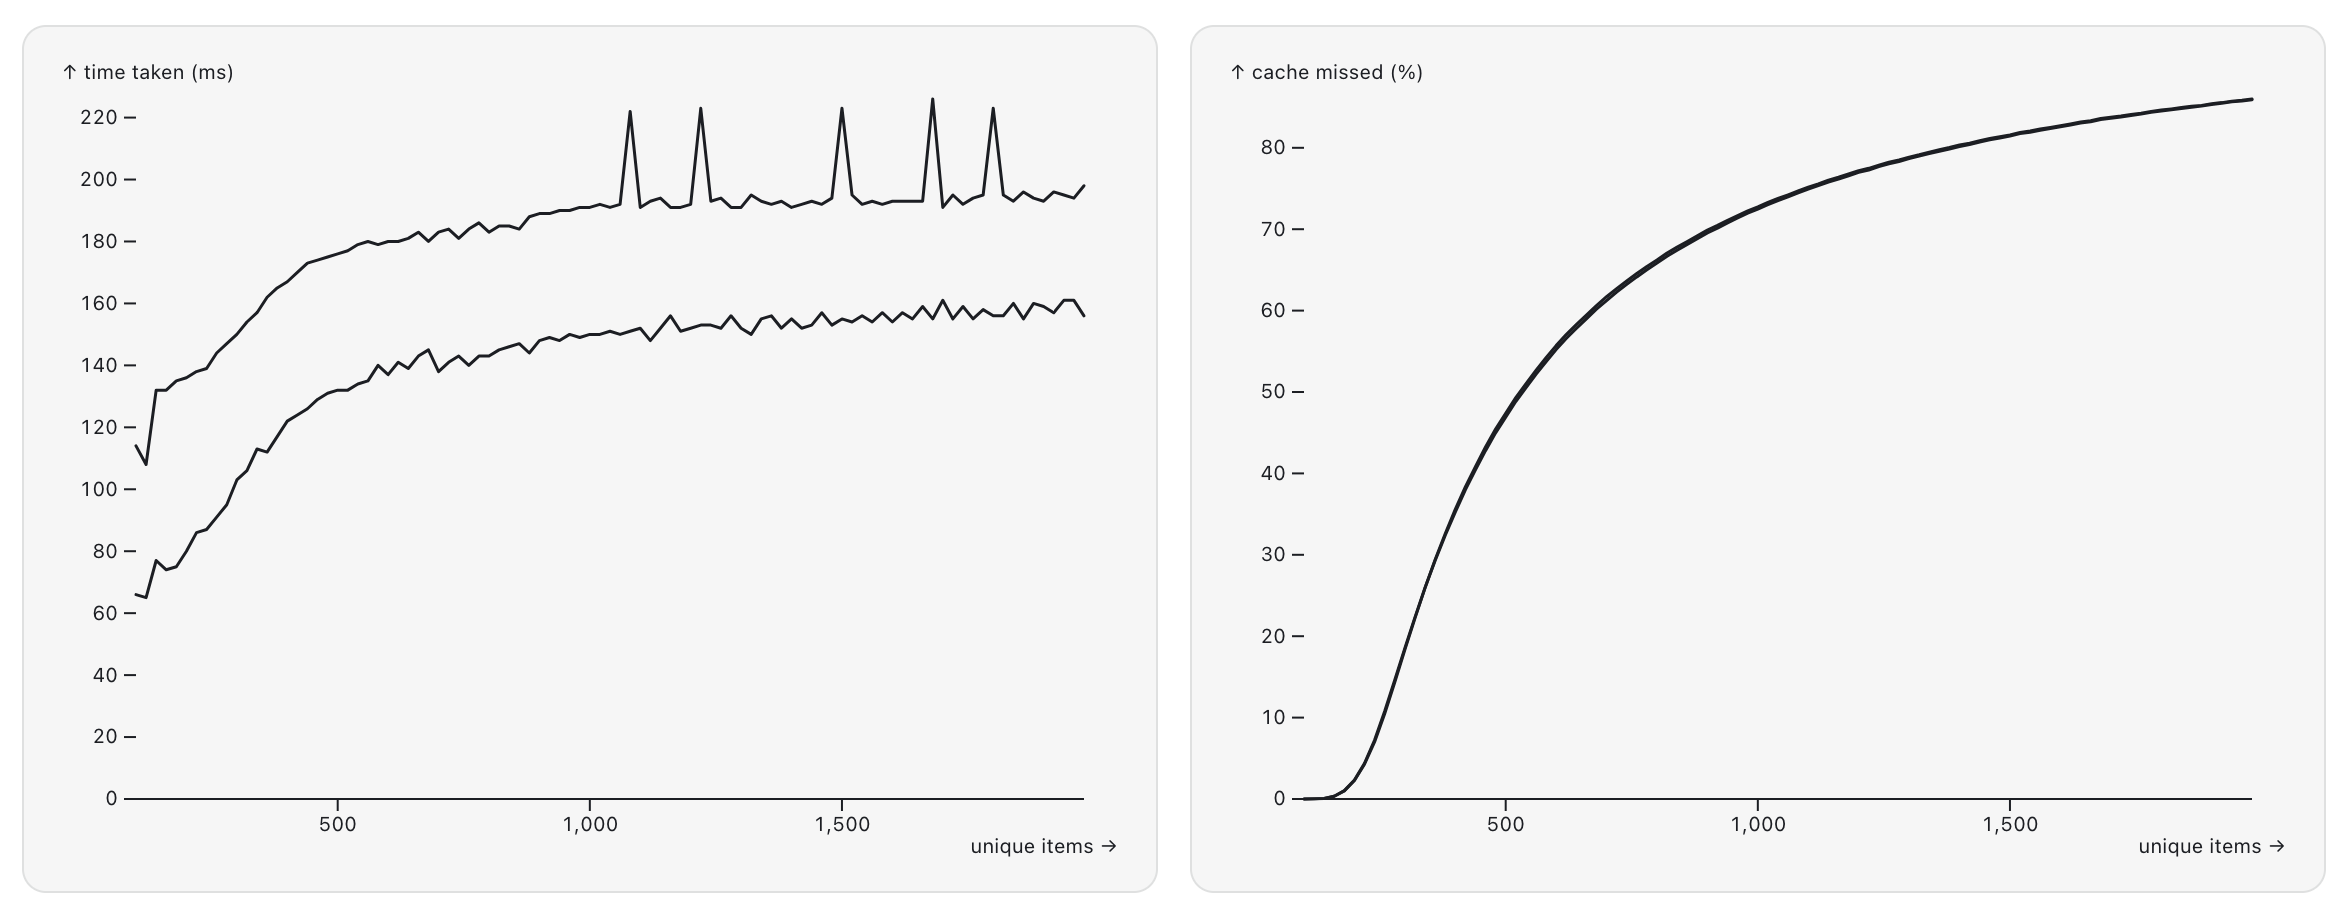
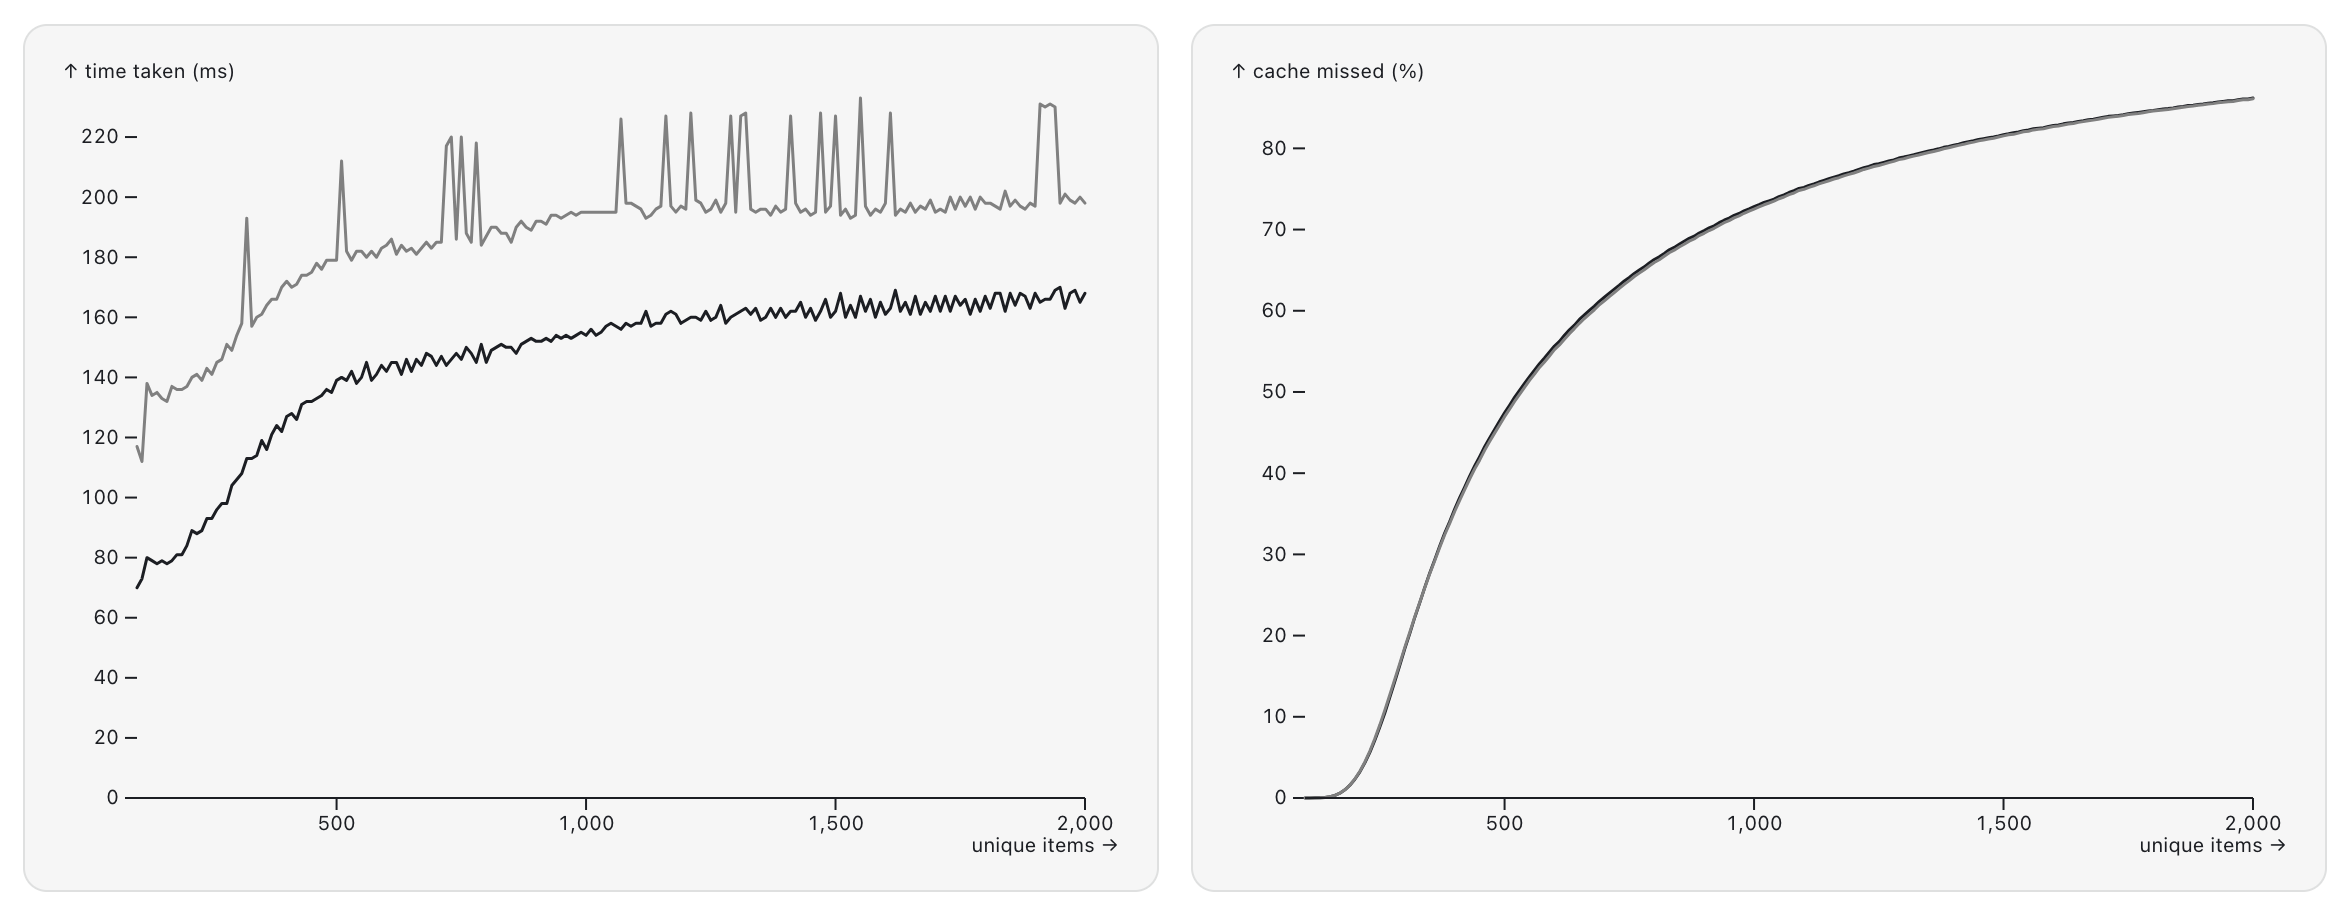
doc: update benchmark

diff --git a/benchmark.ts b/benchmark.ts
@@ -1,5 +1,6 @@
 import { SieveCache } from './mod.ts'
 import { LRUCache } from "./lru.ts"
+// import { LRU as LRUCache } from "https://deno.land/x/lru@1.0.2/mod.ts";
 
 function randGaussian() {
   let u = 0
@@ -11,7 +12,7 @@ function randGaussian() {
 }
 
 const counts = 1_000_000
-const capacity = 200
+const capacity = 100
 const randns = Array(counts).fill(0).map(randGaussian)
 
 
@@ -20,7 +21,7 @@ for (let i = 0; i< 2; i ++) {
   const sieveResult = []
   const lruResult = []
 
-  for (let items = capacity; items < 2_000; items += 20) {
+  for (let items = capacity; items <= capacity * 20; items += capacity * 0.1) {
     const numbers = randns.map(x => Math.round(x * items))
     {
       const cache = new SieveCache(capacity)
@@ -48,7 +49,7 @@ for (let i = 0; i< 2; i ++) {
           missed += 1
         }
         if (cache.get(num) !== num) {
-          throw new Error('cache failed')
+          // throw new Error('cache failed')
         }
       }
       console.log(`LRU   missed: ${(missed/counts * 100).toFixed(2)}% took: ${Date.now() - start}ms`)

diff --git a/README.md b/README.md
@@ -1,4 +1,4 @@
-# Sieve
+# sieve
 
 a simple yet efficient cache, [original introduction](https://cachemon.github.io/SIEVE-website/blog/2023/12/17/sieve-is-simpler-than-lru/)
 
@@ -6,10 +6,10 @@ a simple yet efficient cache, [original introduction](https://cachemon.github.io
 
 ## Usage
 
-for Node.js install via npm: `npm install @zf/sieve`
+for Node.js, install via npm: `npm install @zf/sieve`
 
 ```typescript
-import { SieveCache } from '@zf/sieve'
+import { SieveCache, LRUCache } from '@zf/sieve'
 
 const cache = new SieveCache<string>(3 /* capacity */)
 cache.set('key', 'value')
@@ -19,15 +19,19 @@ cache.get('key')
 for Deno
 
 ```typescript
-import { SieveCache} from "https://deno.land/x/sieve/mod.ts"
+import { SieveCache, LRUCache } from "https://deno.land/x/sieve/mod.ts"
 ```
 
 ## Benchmark
 
-[benchmark](/benchmark.ts) reading 1 million normally distributed items through a cache with a capacity of 100 compared with LRU,
-it is more performant:
+[benchmark](/benchmark.ts) reading 1 million normally distributed items through a cache with a capacity of 100 compared with the [LRU](https://deno.land/x/lru@1.0.2) package,
+it is more performant, while the cache hit/miss ratio is similar:
 
 ![chart](/chart.png)
+
+it seems that the LRU package's implementation is not very efficient, so I wrote my own [LRU](/lru.ts), and it actually better than SIEVE, which is not surprising:
+
+![chart](/100.png)
 
 ## Dev
 
